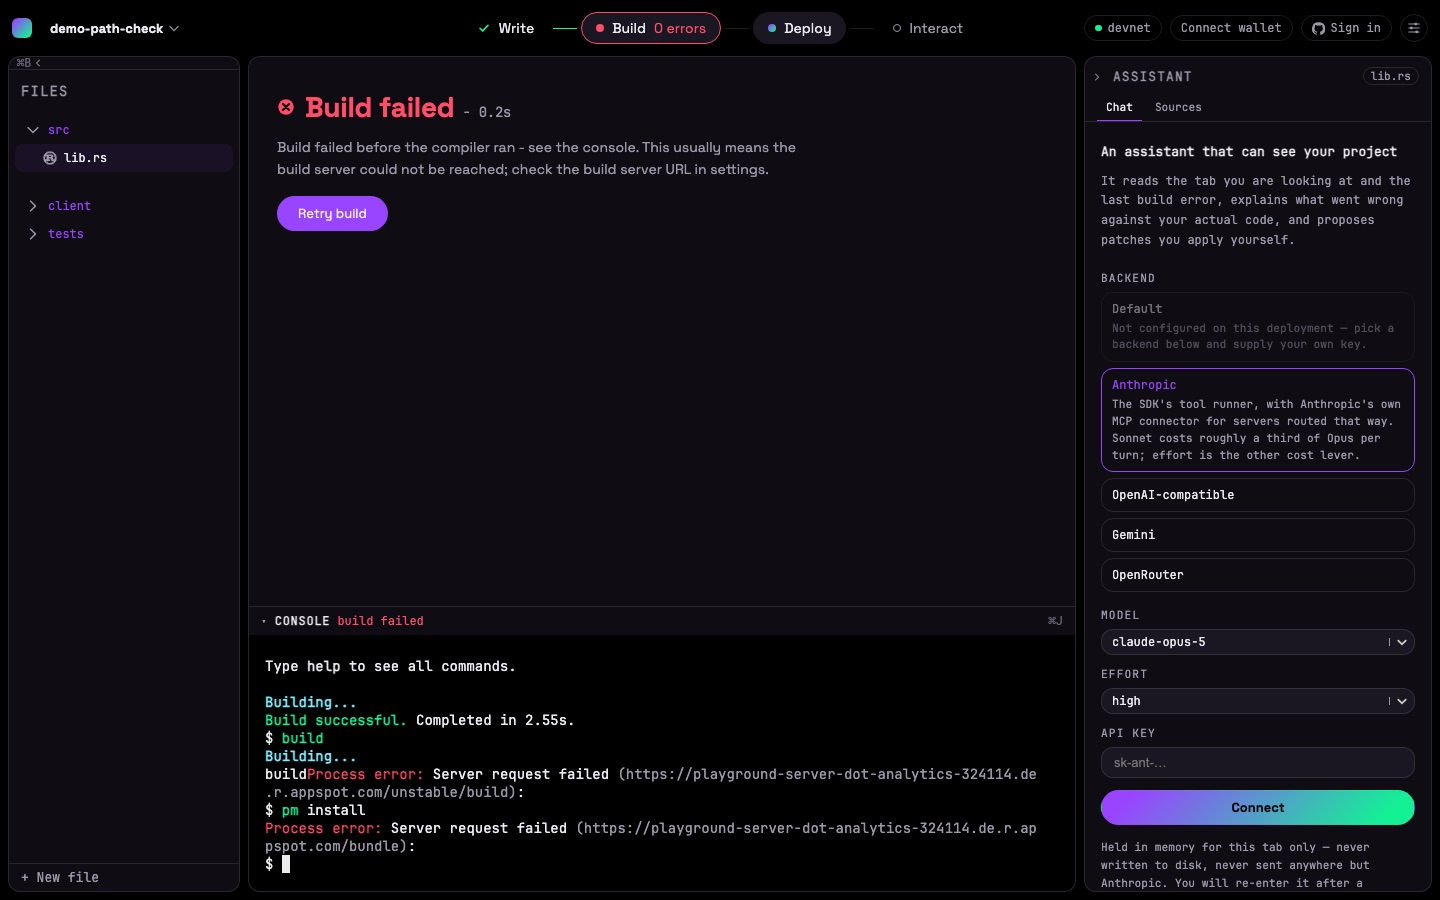
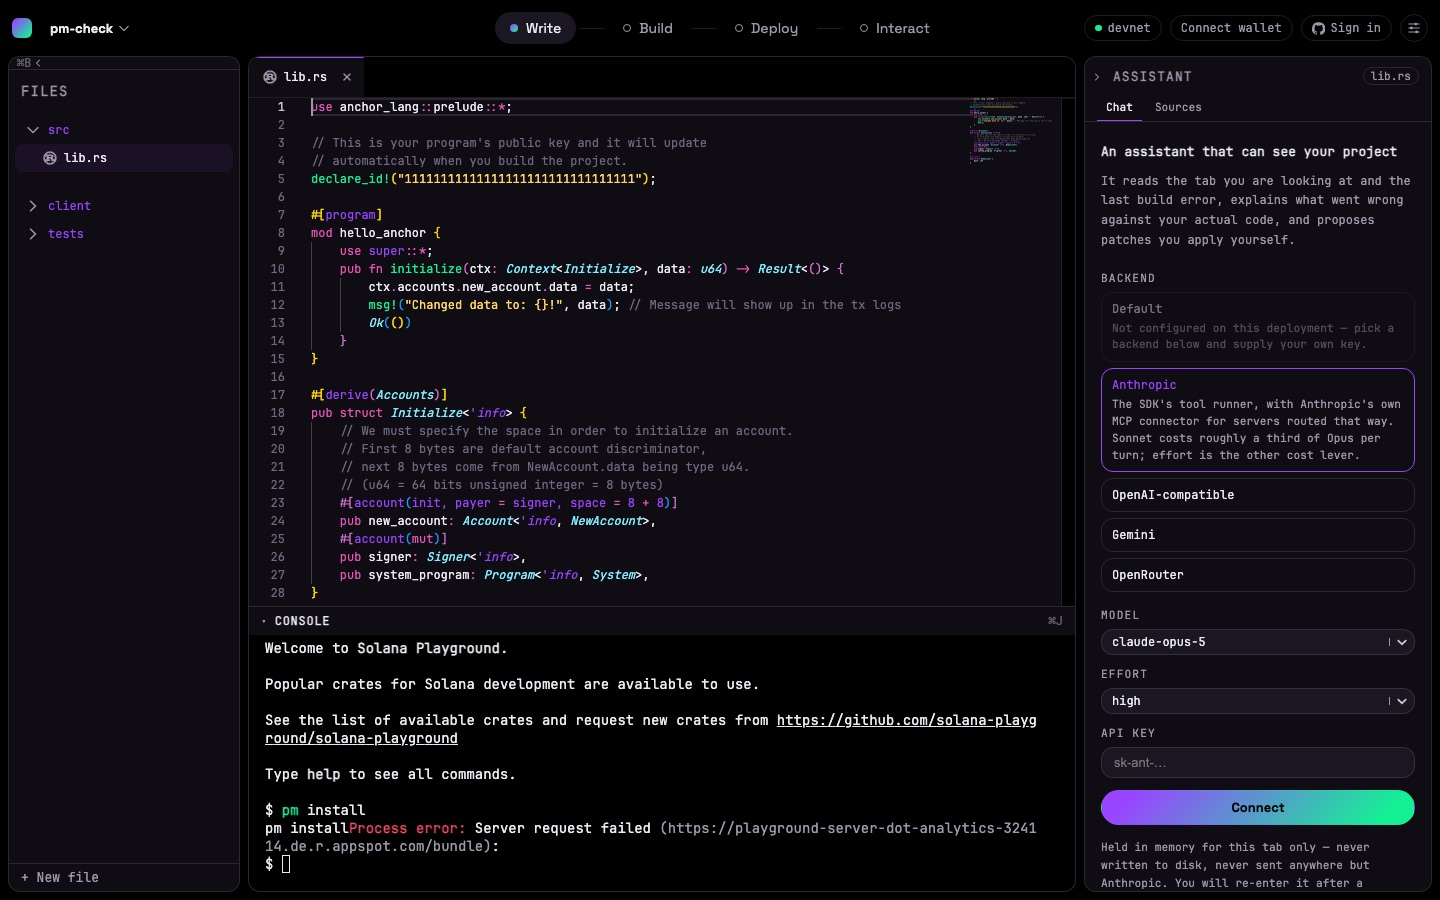
PR #27 review folded in: the ProgramSettings hunk, the asset mirror, the map's server routes, two friction entries

diff --git a/docs/upstream-divergences.md b/docs/upstream-divergences.md
@@ -31,7 +31,7 @@ row: what differs, why, the decision, and what to do on sync / release.
 
 | # | Divergence | Why | Decision | On sync | On release |
 | --- | --- | --- | --- | --- | --- |
-| B1 | `experimental.unstable` defaults to **`false` everywhere**; upstream defaults to `NODE_ENV !== "production"` | No hosted build server enables the `unstable` feature; upstream's default turns every dev build into a 404 | D37 (PR #27) | `settings/experimental/experimental.ts` is ours by one line; keep ours. When upstream's `876fa552` arrives, take everything but the `default` | If a production server ever enables `unstable`, revisit the default and the `/api/build` allowlist |
+| B1 | `experimental.unstable` defaults to **`false` everywhere**; upstream defaults to `NODE_ENV !== "production"` | No hosted build server enables the `unstable` feature; upstream's default turns every dev build into a 404 | D37 (PR #27) | `settings/experimental/experimental.ts` is ours by one line (`default`) and the description wording; keep ours. `876fa552`'s other four files are already verbatim | If a production server ever enables `unstable`, revisit the default and the `/api/build` allowlist |
 | B2 | Default build server in production is the **same-origin `/api/build` proxy**, forwarding to the Foundation's App Engine server; upstream talks to `api.solpg.io` directly | The Foundation's server allowlists origins and a fork deployment is not on the list (D28); Solana's users are served by Solana's infrastructure, not Acheron's (D30) | D28, D30 (PR #22) | `settings/server/server.ts` and `default-endpoint.ts` are ours; upstream's `server.ts` setting is a two-line default -- never take it | `BUILD_SERVER_URL` must be set at deploy; the fallback is the Foundation, never `api.solpg.io` |
 | B3 | Deploy's upgrade length arithmetic lives in **`commands/deploy/additional-len.ts`** (pure, 6 tests); upstream inlines it in `deploy.ts` | `deploy.ts` is hot (29 upstream commits / 6 months) and untestable without the whole module; the merge-safety rule asks for a two-line delegate | Spec 2026-09-08 demo-path port, confirmed by Slava 2026-09-08 (PR #27) | When `getAdditionalLen` changes upstream, port the change into `additional-len.ts` and keep the delegate | none |
 | B4 | The client boots on **Flow** (stepper, stages, left/right panels) instead of upstream's sidebar-and-tabs layout; classic behind a flag | The product is the dev loop as navigation | D10, D17, D18 | Flow is all new files under `views/flow/`; the touch points in upstream files are listed in section 2 | Flow *is* the product surface |
@@ -89,6 +89,7 @@ next sync**; the *Why* column says which side wins.
 | `src/utils/wallet/wallet.ts` | GitHub identity (D21); port of `ef8ba918` (PR #27); **hot** | merge |
 | `src/utils/web3/bpf-loader-upgradeable.ts` | port of `4e7a933b` (PR #27) | identical to upstream at `57479351` |
 | `src/views/index.ts`, `src/views/sidebar/index.ts`, `src/views/sidebar/sidebar.ts`, `src/views/sidebar/create.ts` | assistant page registered (D2, D15) | ours; cold registries |
+| `src/views/sidebar/build-deploy/Component/ProgramSettings/ProgramSettings.tsx` | port of `876fa552` (PR #27) | identical to upstream at `876fa552` |
 | `src/views/sidebar/build-deploy/build-deploy.ts`, `src/views/sidebar/explorer/explorer.ts`, `src/views/sidebar/programs/programs.ts`, `src/views/sidebar/test/test.ts`, `src/views/sidebar/tutorials/tutorials.ts` | sidebar pages re-homed for Flow (#5, D15, D16) | ours |
 | `src/views/sidebar/explorer/Component/ExplorerButtons.tsx`, `Folders.tsx`, `Workspaces.tsx`, `Modals/DeleteWorkspace.tsx` | Flow parity (#10), theme (D9), tutorials (#19) | merge |
 
@@ -123,7 +124,7 @@ Deleted relative to upstream: `public` (the submodule; B13).
 | `e3a221b1` | 09-04 | Fix being unable to pass `PgExplorer.getRelativePath` as a callback | safe |
 | `da2528b4` | 09-05 | Cache package import `Blob` URLs in `PgJsPackage` | take with the next sync; `js-package.ts` is verbatim upstream |
 | `2519b9cf` | 09-06 | Fix method name inconsistencies | rename sweep; check the assistant bridge |
-| `876fa552` | 09-07 | Add `experimental.unstable` setting | **already ported in PR #27, one line differs (B1)** |
+| `876fa552` | 09-07 | Add `experimental.unstable` setting | **ported whole in PR #27** (setting, `server.ts`, template, `helper.ts`, `ProgramSettings.tsx`); only the `default` differs (B1) |
 
 ### 3c. In `upstream/master` beyond `master-2.0` (server, 8)
 

diff --git a/docs/friction-log.md b/docs/friction-log.md
@@ -159,3 +159,19 @@ consequence is a question to ask, not to derive.
   `M client/public` for days. Harmless until something reads the new
   files; `git submodule update` and `make update-static` are the fix,
   and nothing in the tree reminds anyone.
+- **Server-supplied JS runs in the main window, and now persists.**
+  `PgJsPackage.importChunk` executes bundle code from the build server
+  through a same-origin Blob `import()` with the page's full reach,
+  `localStorage` and the built-in wallet included. `PgServer.packages`
+  did the same, so PR #27 widens nothing -- but the code is now stored
+  under `.workspace/js-packages` and re-executed in later sessions, and
+  `window.__pgImportChunk` lets any loaded bundle read any file there.
+  Behind `experimental.unstable = false` and a user-chosen server, which
+  is the right gate; the assistant's own security story leans on the
+  iframe blacklist, which this path never passes through. For the
+  Foundation conversation. Raised by the PR #27 code review.
+- **The dev server's SPA fallback hides missing assets.** Any unknown
+  path answers `index.html` with 200, so a fetch-then-parse of a missing
+  static file succeeds with HTML in hand. It made the first `pm install`
+  hand-check of PR #27 hollow. The same trap already bit the Rust
+  Analyzer crate assets (`common.fetch.test.ts`'s reason to exist).

diff --git a/docs/superpowers/specs/2026-09-08-upstream-demo-path-port-design.md b/docs/superpowers/specs/2026-09-08-upstream-demo-path-port-design.md
@@ -42,9 +42,12 @@ Two facts checked on 2026-09-08 change how the third item is taken:
   submodule at `1098ecfa`, which `master-2.0` pins for `client/public`,
   carries `frameworks/package.json` and `frameworks/yarn.lock`;
   `make update-static` mirrors them into `client-v2/public`. No repo
-  change, but the primary checkout's submodule is stale at `df14c26e`
-  (`git status` shows `M client/public`) and needs
-  `git submodule update`.
+  change, but the primary checkout's submodule was stale at `df14c26e`
+  (`git status` showed `M client/public`) until `git submodule update`
+  on 2026-09-08. **Without it the fallback is silently wrong in
+  development**: the dev server answers an unknown path with
+  `index.html` and status 200, so `fetchText` does not throw and
+  `pm install` posts HTML as the manifest. Found by the code review.
 
 ## Scope
 
